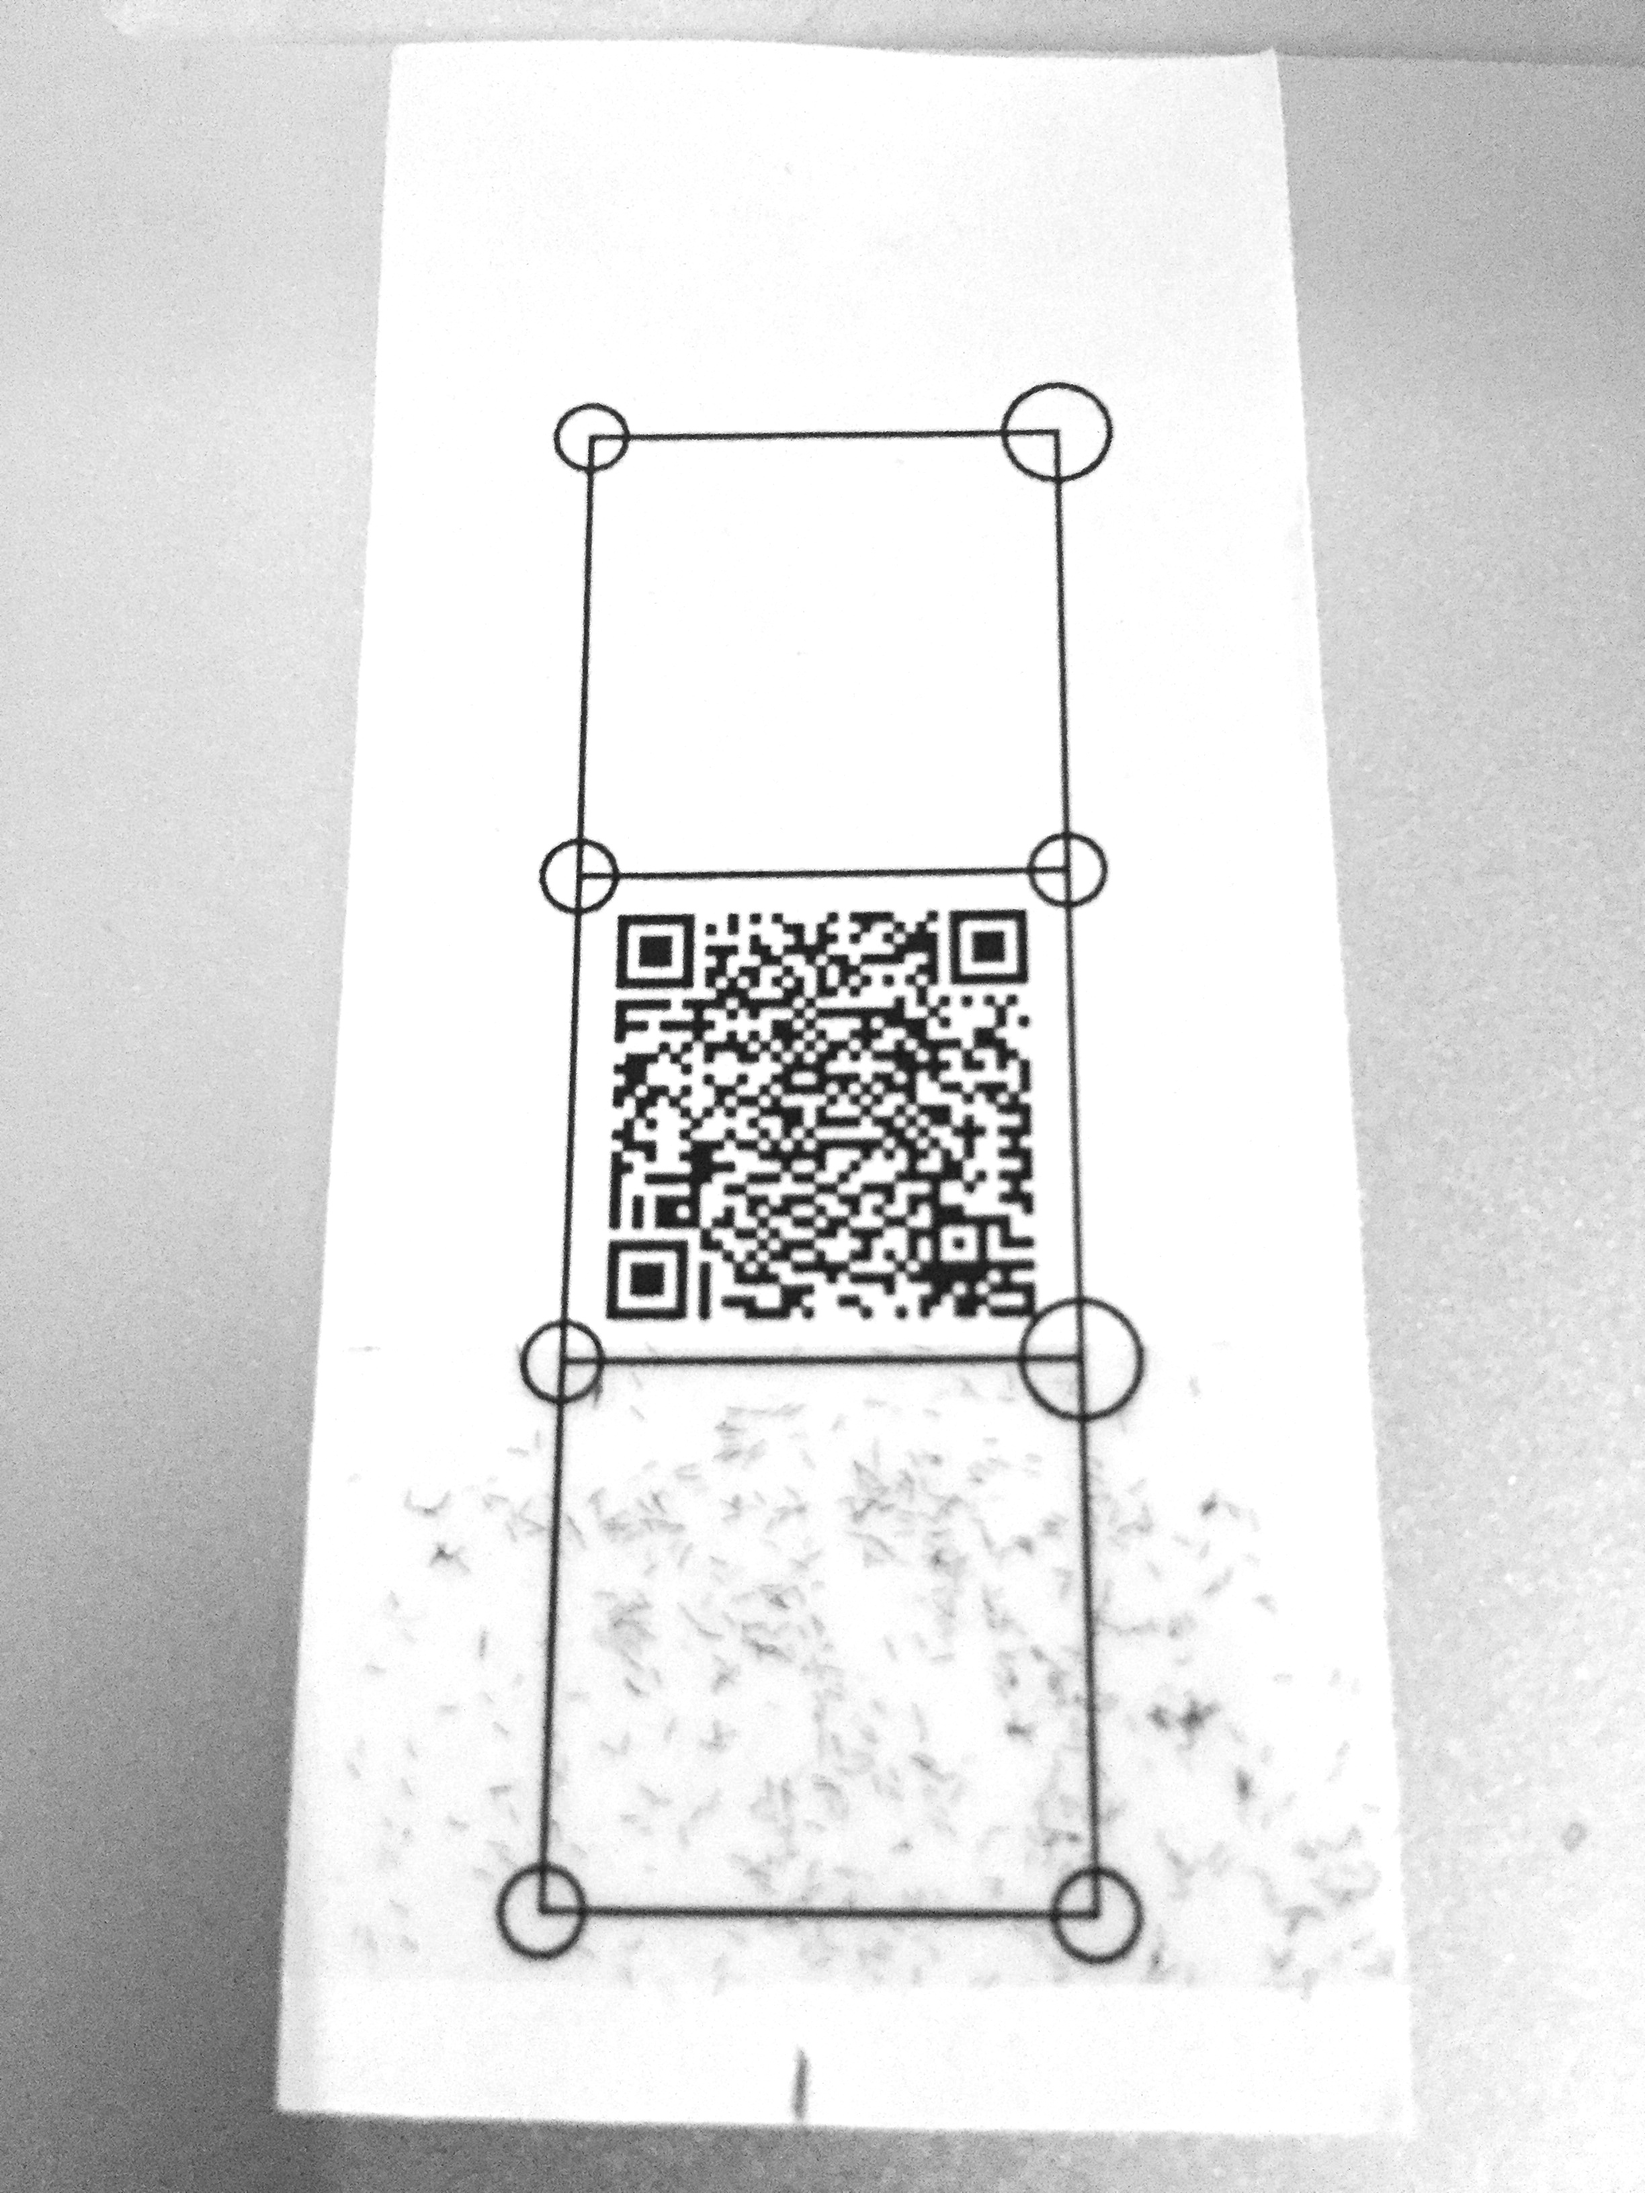
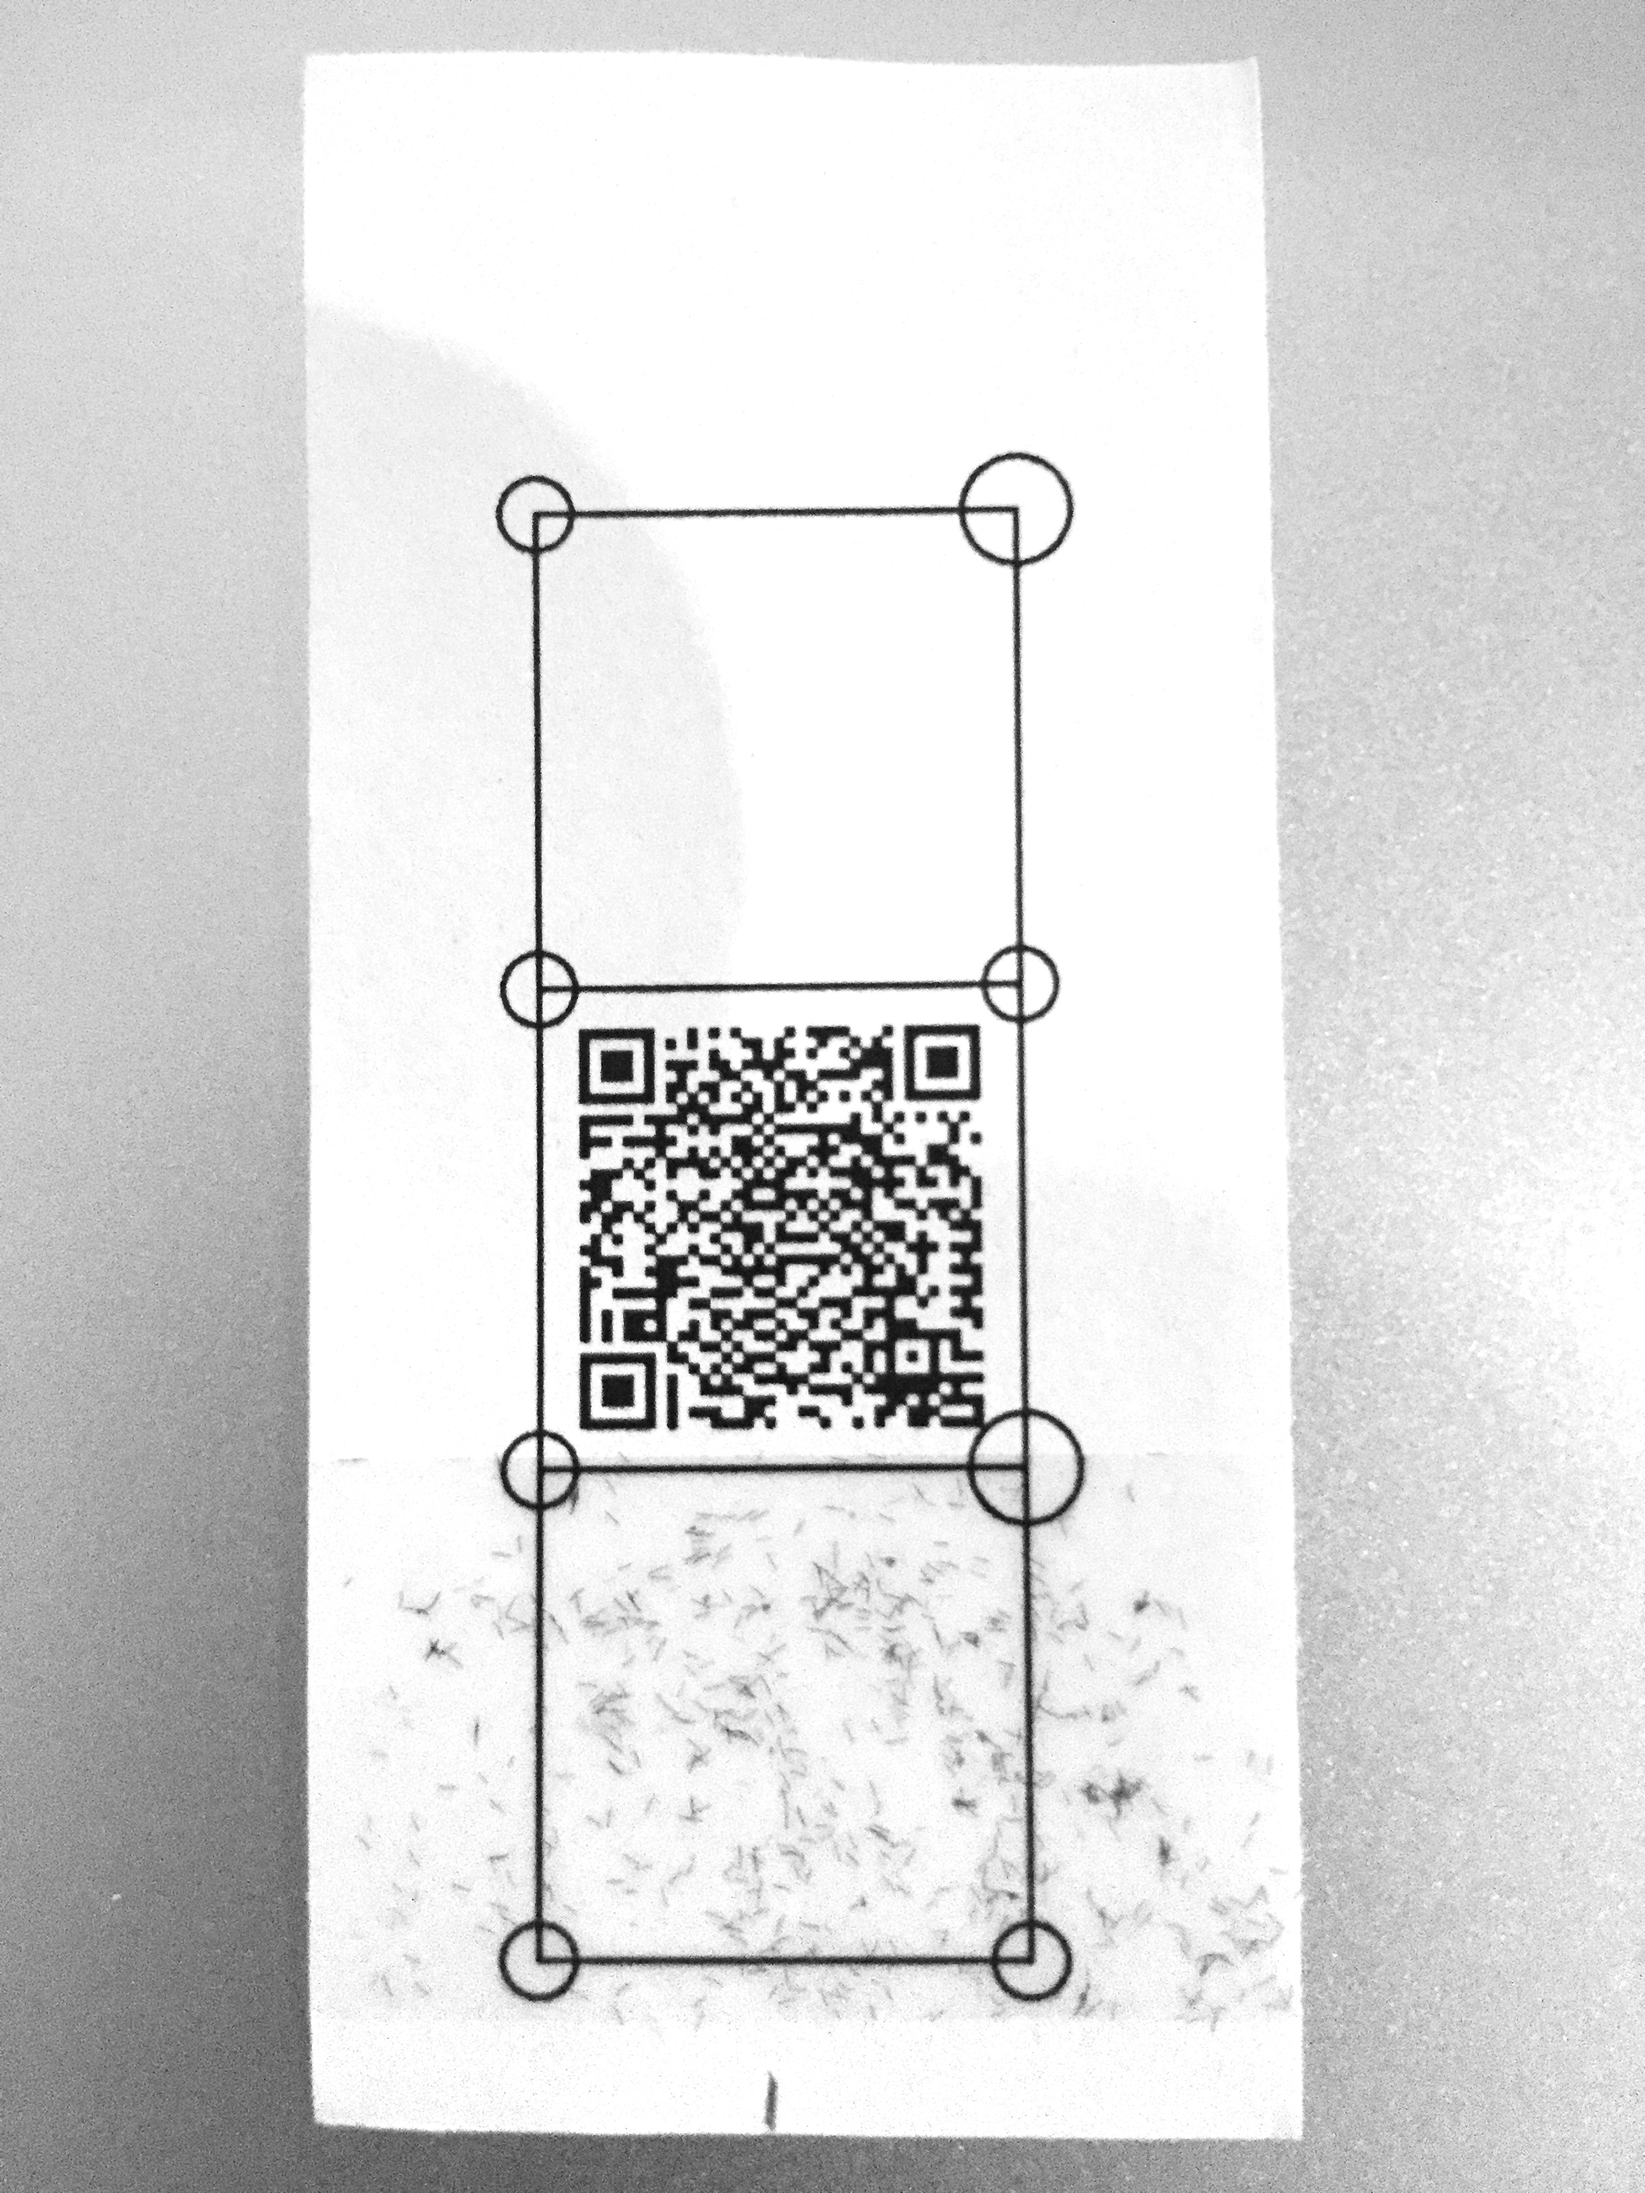
done with corners

Changed region(s): [[0.0, 0.0, 1.0, 1.0], [0.0621, 0.0, 0.0931, 0.0312]]

diff --git a/src/QRLocator.cpp b/src/QRLocator.cpp
@@ -95,8 +95,8 @@ void rearrangeAlignMarkers(	vector<vector<Point>>& contours, vector<Vec4i>& hier
 	std::cout << arrangedMassCenters << std::endl;
 
 	for (int i = 0; i < 3; i++){
-		approxPolyDP(findOuterContour(contours, hierarchy, indices[i]), rectangles[i], 10., true);
-		sortRectangleCorners(rectangles[i], massCenters[i]);
+		approxPolyDP(findOuterContour(contours, hierarchy, arrangedIndices[i]), rectangles[i], 10., true);
+		sortRectangleCorners(rectangles[i], arrangedMassCenters[i]);
 	}
 }
 
@@ -150,7 +150,7 @@ void findAlignMarkerContours(
 		for(; hierarchy[k][2] != -1; k = hierarchy[k][2], c = c+1){}
 		
 		if (c > 4) {
-			alignMarkerMassCenters.push_back(massCenters[i]);
+			alignMarkerMassCenters.push_back(massCenters[k]);
 			alignMarkerContourIndices.push_back(k);
 		}
 
@@ -160,12 +160,12 @@ void findAlignMarkerContours(
 
 void findFourCorners(Mat &image, vector<vector<Point>>& rectangles, vector<Point2f>& corners){
 
-	corners.push_back(Point2f(rectangles[0][2].x, rectangles[0][2].y));
-	corners.push_back(Point2f(rectangles[1][1].x, rectangles[1][1].y));
-	corners.push_back(Point2f(rectangles[2][0].x, rectangles[2][0].y));
+	corners.push_back(Point2f(rectangles[0][1].x, rectangles[0][1].y));
+	corners.push_back(Point2f(rectangles[1][0].x, rectangles[1][0].y));
+	corners.push_back(Point2f(rectangles[2][2].x, rectangles[2][2].y));
 
 	for (int i = 0; i < 3; i++){
-		circle(image, corners[i], 20, Scalar(i*127), -1);
+		circle(image, corners[i], 20, Scalar(127*i), -1);
 	}	
 }
 
